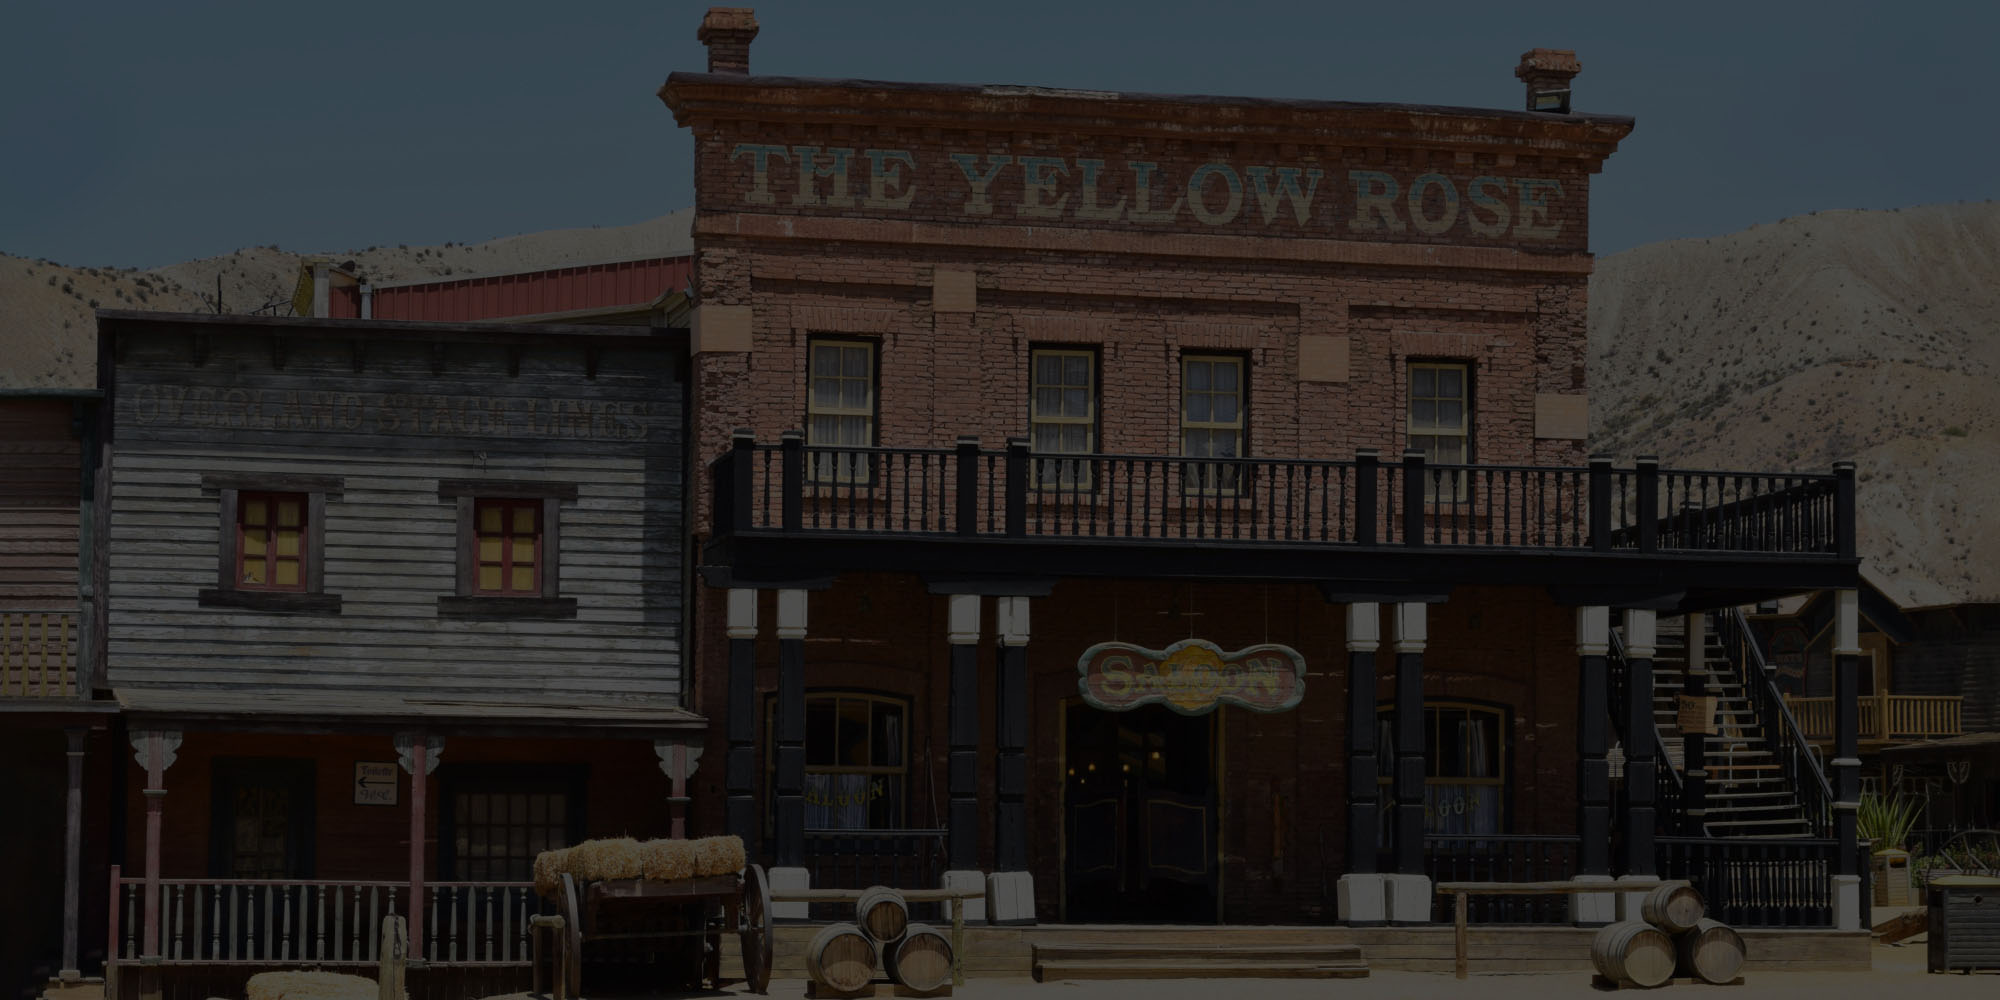
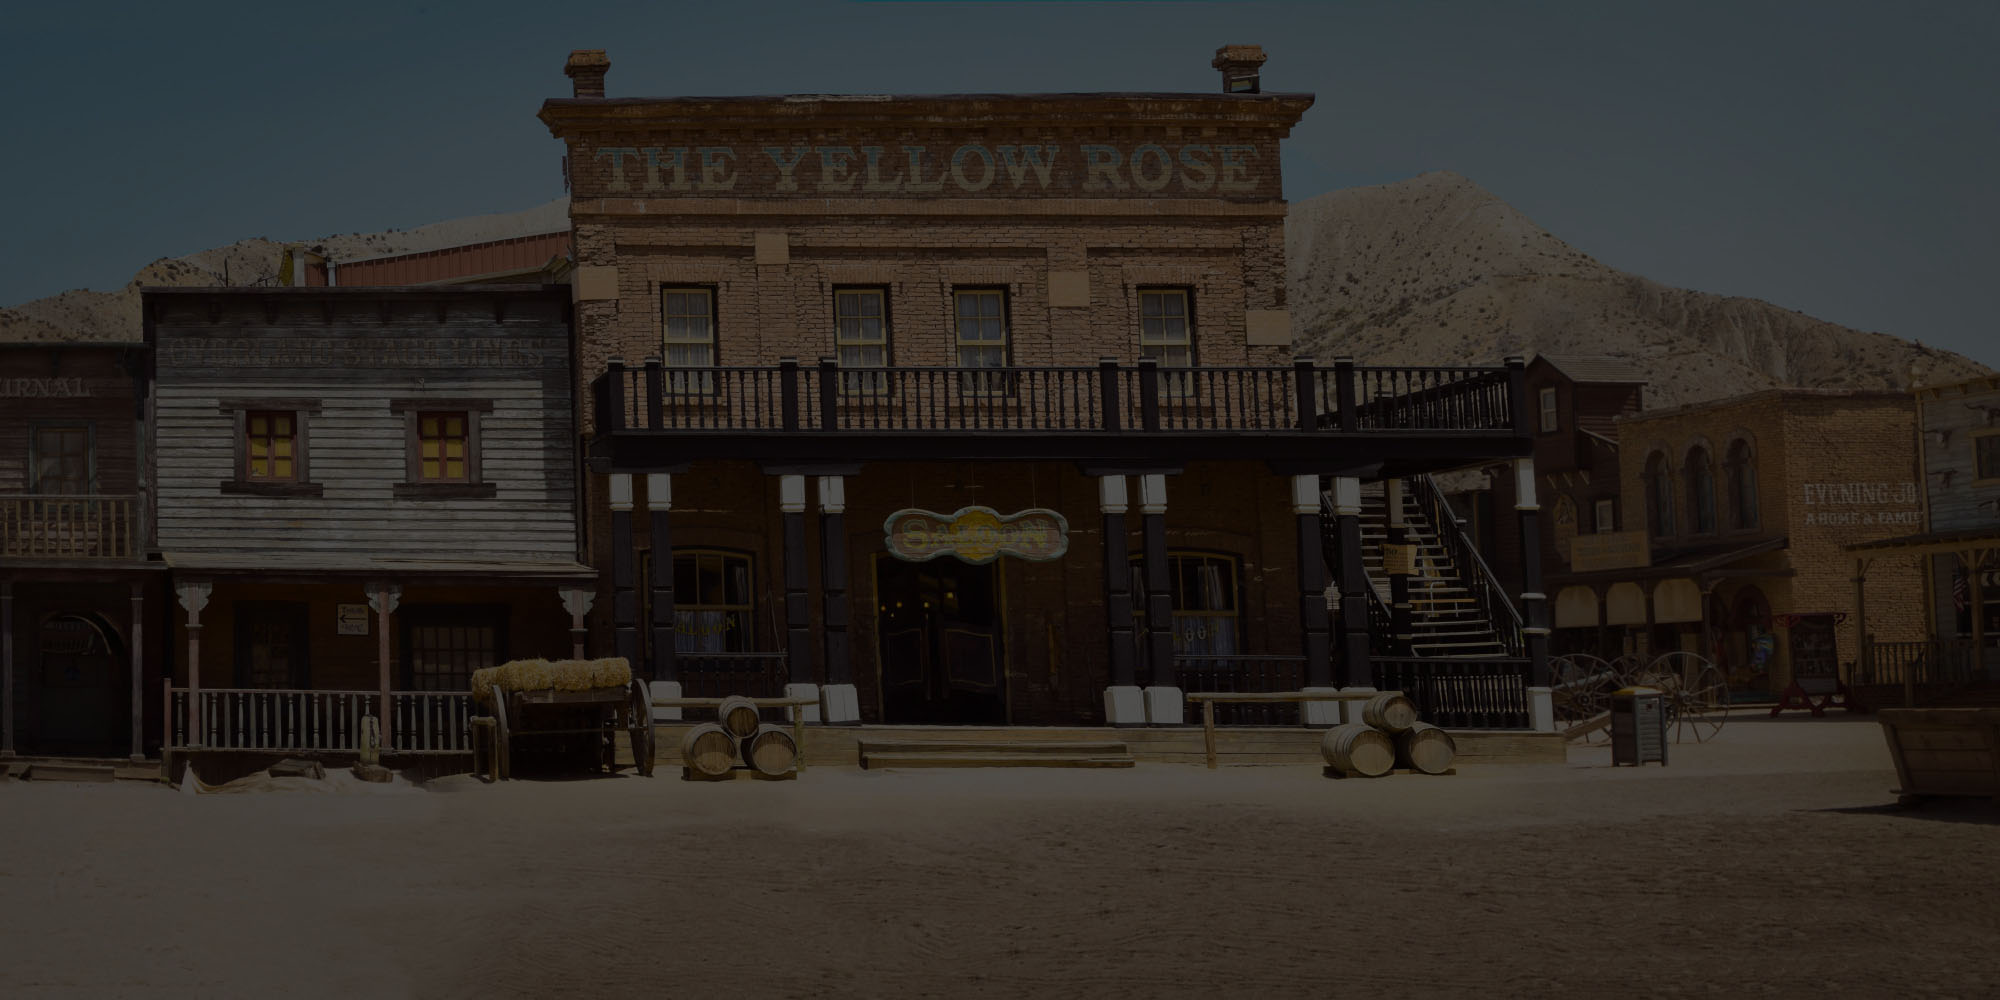
Updates Western Street background, adds backgrounds to the game

diff --git a/BondageClub/Scripts/Common.js b/BondageClub/Scripts/Common.js
@@ -13,11 +13,11 @@ var CommonCSVCache = {};
 var CutsceneStage = 0;
 var CommonBackgroundList = [
 	"Introduction", "KidnapLeague", "MaidQuarters", "MainHall", "Management", "Private", "Shibari", "MaidCafe", 
-	"HorseStable", "Nursery", "Bedroom", "PrisonHall", "Kennels",
+	"HorseStable", "Ranch", "Nursery", "Bedroom", "PrisonHall", "Kennels",
 	"BDSMRoomBlue", "BDSMRoomPurple", "BDSMRoomRed", "BondageBedChamber",
 	"CeremonialVenue", "WeddingRoom", "WeddingArch", "WeddingBeach",
 	"ParkDay", "ParkNight", "Gardens", "ParkWinter", "XmasEve", "XmasDay", "StreetNight", "SnowyStreet", "DystopianCity",
-	"IndoorPool", "OutdoorPool", "PublicBath", "Onsen", "Beach", "BeachCafe", "BeachHotel",
+	"IndoorPool", "OutdoorPool", "OutdoorPool2", "PublicBath", "Onsen", "Beach", "BeachCafe", "BeachHotel",
 	"PirateIsland", "PirateIslandNight", "ShipDeck", "CaptainCabin", "Shipwreck", 
 	"UnderwaterOne",
 	"MedinaMarket",	"SheikhPrivate", "SheikhTent",
@@ -29,7 +29,7 @@ var CommonBackgroundList = [
 	"SlumApartment", "AbandonedBuilding", "AbandonedSideRoom", "Industrial", "BackAlley", "CreepyBasement", "Cellar", "SlumCellar",
 	"VaultCorridor", "SciFiCell", "SpaceCaptainBedroom",
 	"HellEntrance", "HeavenEntrance", 
-	"BarRestaurant", "LostVages",
+	"Wagons", "Desert", "WesternStreet", "BarRestaurant", "LostVages",
 	"ChillRoom", "Boudoir", "Kitchen", "DiningRoom", "CozyLivingRoom", "TiledBathroom",
 	"RooftopParty", "PartyBasement", "CosyChalet", "BalconyNight"
 ];
